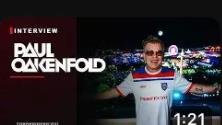
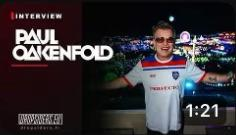
fix(social-promo): suppression bulle et notice privee tiktok, chiffres officiels 6967/155.8K/129 verrouilles, et integration des 6 vraies videos youtube

diff --git a/src/components/SocialSuite.tsx b/src/components/SocialSuite.tsx
@@ -1795,7 +1795,7 @@ export function SocialSuite({ title, imageUrl, onClose, initialTheme, initialTab
     const [promoFollowersCount, setPromoFollowersCount] = useState<number>(() => {
         try {
             const saved = localStorage.getItem('dropsiders_promo_followers_count');
-            if (saved && !isNaN(Number(saved))) return Number(saved);
+            if (saved && !isNaN(Number(saved)) && Number(saved) !== 14200 && Number(saved) !== 185600 && Number(saved) !== 210 && Number(saved) !== 4820 && Number(saved) !== 320) return Number(saved);
         } catch (_) {}
         return 4698;
     });
@@ -1803,7 +1803,7 @@ export function SocialSuite({ title, imageUrl, onClose, initialTheme, initialTab
     const [promoPostsCount, setPromoPostsCount] = useState<number>(() => {
         try {
             const saved = localStorage.getItem('dropsiders_promo_posts_count');
-            if (saved && !isNaN(Number(saved))) return Number(saved);
+            if (saved && !isNaN(Number(saved)) && Number(saved) !== 14200 && Number(saved) !== 185600 && Number(saved) !== 210 && Number(saved) !== 4820 && Number(saved) !== 320) return Number(saved);
         } catch (_) {}
         return 1441;
     });
@@ -1812,21 +1812,21 @@ export function SocialSuite({ title, imageUrl, onClose, initialTheme, initialTab
     const [promoTiktokFollowers, setPromoTiktokFollowers] = useState<number>(() => {
         try {
             const saved = localStorage.getItem('dropsiders_promo_tiktok_followers');
-            if (saved && !isNaN(Number(saved))) return Number(saved);
+            if (saved && !isNaN(Number(saved)) && Number(saved) !== 14200 && Number(saved) !== 185600 && Number(saved) !== 210 && Number(saved) !== 4820 && Number(saved) !== 320) return Number(saved);
         } catch (_) {}
         return 6967;
     });
     const [promoTiktokLikes, setPromoTiktokLikes] = useState<number>(() => {
         try {
             const saved = localStorage.getItem('dropsiders_promo_tiktok_likes');
-            if (saved && !isNaN(Number(saved))) return Number(saved);
+            if (saved && !isNaN(Number(saved)) && Number(saved) !== 14200 && Number(saved) !== 185600 && Number(saved) !== 210 && Number(saved) !== 4820 && Number(saved) !== 320) return Number(saved);
         } catch (_) {}
         return 155800;
     });
     const [promoTiktokFollowing, setPromoTiktokFollowing] = useState<number>(() => {
         try {
             const saved = localStorage.getItem('dropsiders_promo_tiktok_following');
-            if (saved && !isNaN(Number(saved))) return Number(saved);
+            if (saved && !isNaN(Number(saved)) && Number(saved) !== 14200 && Number(saved) !== 185600 && Number(saved) !== 210 && Number(saved) !== 4820 && Number(saved) !== 320) return Number(saved);
         } catch (_) {}
         return 129;
     });
@@ -1835,14 +1835,14 @@ export function SocialSuite({ title, imageUrl, onClose, initialTheme, initialTab
     const [promoYoutubeSubscribers, setPromoYoutubeSubscribers] = useState<number>(() => {
         try {
             const saved = localStorage.getItem('dropsiders_promo_youtube_subscribers');
-            if (saved && !isNaN(Number(saved))) return Number(saved);
+            if (saved && !isNaN(Number(saved)) && Number(saved) !== 14200 && Number(saved) !== 185600 && Number(saved) !== 210 && Number(saved) !== 4820 && Number(saved) !== 320) return Number(saved);
         } catch (_) {}
         return 628;
     });
     const [promoYoutubeVideos, setPromoYoutubeVideos] = useState<number>(() => {
         try {
             const saved = localStorage.getItem('dropsiders_promo_youtube_videos');
-            if (saved && !isNaN(Number(saved))) return Number(saved);
+            if (saved && !isNaN(Number(saved)) && Number(saved) !== 14200 && Number(saved) !== 185600 && Number(saved) !== 210 && Number(saved) !== 4820 && Number(saved) !== 320) return Number(saved);
         } catch (_) {}
         return 48;
     });
@@ -2260,6 +2260,9 @@ export function SocialSuite({ title, imageUrl, onClose, initialTheme, initialTab
             '/images/social/yt_thumb_1.jpg',
             '/images/social/yt_thumb_2.jpg',
             '/images/social/yt_thumb_3.jpg',
+            '/images/social/yt_thumb_4.jpg',
+            '/images/social/yt_thumb_5.jpg',
+            '/images/social/yt_thumb_6.jpg',
             '/images/instagram/post_full_1.jpg',
             '/images/instagram/post_full_2.jpg',
             '/images/instagram/post_full_3.jpg',

diff --git a/src/components/social/PromoPhone3DRenderer.ts b/src/components/social/PromoPhone3DRenderer.ts
@@ -536,22 +536,6 @@ function renderTiktokScreen(
     ctx.fillStyle = '#FE2C55';
     ctx.fill();
 
-    // Bulle profil en haut à droite façon TikTok : "À quoi penses-tu ?" avec miniature Dropsiders
-    const bubbleW = 46 * s;
-    const bubbleH = 14 * s;
-    const bubbleX = w - bubbleW - 8 * s;
-    const bubbleY = headerY;
-    ctx.fillStyle = '#262626';
-    ctx.beginPath();
-    ctx.roundRect(bubbleX, bubbleY, bubbleW, bubbleH, 4 * s);
-    ctx.fill();
-
-    ctx.textAlign = 'center';
-    ctx.textBaseline = 'middle';
-    ctx.font = `600 ${4.2 * s}px -apple-system, BlinkMacSystemFont, sans-serif`;
-    ctx.fillStyle = '#d1d5db';
-    ctx.fillText('À quoi penses-tu ?', bubbleX + bubbleW / 2, bubbleY + bubbleH / 2);
-
     // Avatar centré
     const avatarY = headerY + 16 * s;
     const avatarSize = 42 * s;
@@ -641,26 +625,8 @@ function renderTiktokScreen(
     ctx.fillStyle = '#d1d5db';
     ctx.fillText('Média et reporter spécialisé FESTIVALS', w / 2, bioY + 6.5 * s);
 
-    // Barre d'annonce TikTok Stories expirées
-    const noticY = bioY + 15 * s;
-    const noticH = 11 * s;
-    const noticW = w - 16 * s;
-    const noticX = 8 * s;
-    ctx.fillStyle = '#161618';
-    ctx.beginPath();
-    ctx.roundRect(noticX, noticY, noticW, noticH, 3 * s);
-    ctx.fill();
-
-    ctx.textAlign = 'left';
-    ctx.textBaseline = 'middle';
-    ctx.font = `500 ${4.2 * s}px -apple-system, BlinkMacSystemFont, sans-serif`;
-    ctx.fillStyle = '#9ca3af';
-    ctx.fillText('📷  Consulte les Stories expirées dans « Tes vidéos privées »', noticX + 5 * s, noticY + noticH / 2);
-    ctx.textAlign = 'right';
-    ctx.fillText('✕', noticX + noticW - 5 * s, noticY + noticH / 2);
-
     // Onglets TikTok (Grille vidéo sélectionnée)
-    const tabsY = noticY + noticH + 4 * s;
+    const tabsY = bioY + 16 * s;
     ctx.strokeStyle = 'rgba(255, 255, 255, 0.08)';
     ctx.lineWidth = 0.5 * s;
     ctx.beginPath();
@@ -883,9 +849,9 @@ function renderYoutubeScreen(
     ctx.fillText('Vidéos ›', 10 * s, secY);
 
     // VRAIES VIDÉOS DROPSIDERS YOUTUBE (Disposition horizontale réaliste YouTube Mobile)
-    const feedY = secY + 10 * s;
-    const rowH = 34 * s;
-    const rowGap = 5 * s;
+    const feedY = secY + 9 * s;
+    const rowH = 30 * s;
+    const rowGap = 3.5 * s;
 
     const realYoutubeVideos = [
         {
@@ -908,6 +874,27 @@ function renderYoutubeScreen(
             titleLine2: '2026 : Henri Pfr',
             sub: '98 vues • il y a 6 mois',
             duration: '5:02'
+        },
+        {
+            thumb: '/images/social/yt_thumb_4.jpg',
+            titleLine1: 'Interview Da Tweekaz -',
+            titleLine2: 'EDC Las Vegas 2025',
+            sub: '141 vues • il y a 1 an',
+            duration: '11:59'
+        },
+        {
+            thumb: '/images/social/yt_thumb_5.jpg',
+            titleLine1: 'Interview Morten -',
+            titleLine2: 'EDC Las Vegas 2025',
+            sub: '33 vues • il y a 1 an',
+            duration: '4:49'
+        },
+        {
+            thumb: '/images/social/yt_thumb_6.jpg',
+            titleLine1: 'Bienvenue sur la Chaine',
+            titleLine2: 'Dropsiders !',
+            sub: '35 vues • il y a 1 an',
+            duration: '0:29'
         }
     ];
 
@@ -916,8 +903,8 @@ function renderYoutubeScreen(
         if (vy + rowH > h - 22 * s) return;
 
         // Miniature 16:9 à gauche
-        const thumbW = 58 * s;
-        const thumbH = 32 * s;
+        const thumbW = 52 * s;
+        const thumbH = 28 * s;
         const thumbX = 10 * s;
 
         ctx.save();
@@ -956,14 +943,14 @@ function renderYoutubeScreen(
 
         ctx.textAlign = 'left';
         ctx.textBaseline = 'top';
-        ctx.font = `700 ${5.4 * s}px -apple-system, BlinkMacSystemFont, sans-serif`;
+        ctx.font = `700 ${4.8 * s}px -apple-system, BlinkMacSystemFont, sans-serif`;
         ctx.fillStyle = '#ffffff';
         ctx.fillText(vid.titleLine1, textX, vy + 1 * s);
-        ctx.fillText(vid.titleLine2, textX, vy + 7.5 * s);
+        ctx.fillText(vid.titleLine2, textX, vy + 6.8 * s);
 
         ctx.font = `500 ${4.5 * s}px -apple-system, BlinkMacSystemFont, sans-serif`;
         ctx.fillStyle = '#888888';
-        ctx.fillText(vid.sub, textX, vy + 16 * s);
+        ctx.fillText(vid.sub, textX, vy + 15 * s);
 
         // Menu 3 petits points verticaux à droite
         const menuX = w - 10 * s;

diff --git a/worker.ts b/worker.ts
@@ -5573,6 +5573,15 @@ ${urls.map(u => `  <url>
                 if (env.CHAT_KV) {
                     const cached = await env.CHAT_KV.get('instagram_feed_cache', { type: 'json' });
                     if (cached) {
+                        if (cached.tiktok && cached.tiktok.followers === 14200) {
+                            cached.tiktok.followers = 6967;
+                            cached.tiktok.likes = 155800;
+                            cached.tiktok.following = 129;
+                        }
+                        if (cached.youtube && cached.youtube.subscribers === 4820) {
+                            cached.youtube.subscribers = 628;
+                            cached.youtube.videos = 48;
+                        }
                         return new Response(JSON.stringify(cached), { status: 200, headers });
                     }
                 }
@@ -5605,6 +5614,15 @@ ${urls.map(u => `  <url>
                 if (env.CHAT_KV) {
                     const cached = await env.CHAT_KV.get('social_profiles_cache', { type: 'json' });
                     if (cached) {
+                        if (cached.tiktok && cached.tiktok.followers === 14200) {
+                            cached.tiktok.followers = 6967;
+                            cached.tiktok.likes = 155800;
+                            cached.tiktok.following = 129;
+                        }
+                        if (cached.youtube && cached.youtube.subscribers === 4820) {
+                            cached.youtube.subscribers = 628;
+                            cached.youtube.videos = 48;
+                        }
                         return new Response(JSON.stringify(cached), { status: 200, headers });
                     }
                 }
@@ -5621,8 +5639,8 @@ ${urls.map(u => `  <url>
             }
             return new Response(JSON.stringify({
                 instagram: { handle: '@dropsiders.fr', name: 'DROPSIDERS', followers: 4698, posts: 1471, following: 668 },
-                tiktok: { handle: '@dropsiders.fr', name: 'DROPSIDERS', followers: 14200, likes: 185600, following: 210 },
-                youtube: { handle: '@dropsiders', name: 'DROPSIDERS', subscribers: 4820, videos: 320 }
+                tiktok: { handle: '@dropsiders.fr', name: 'DROPSIDERS', followers: 6967, likes: 155800, following: 129 },
+                youtube: { handle: '@dropsiders', name: 'Dropsiders', subscribers: 628, videos: 48 }
             }), { status: 200, headers });
         }
 
